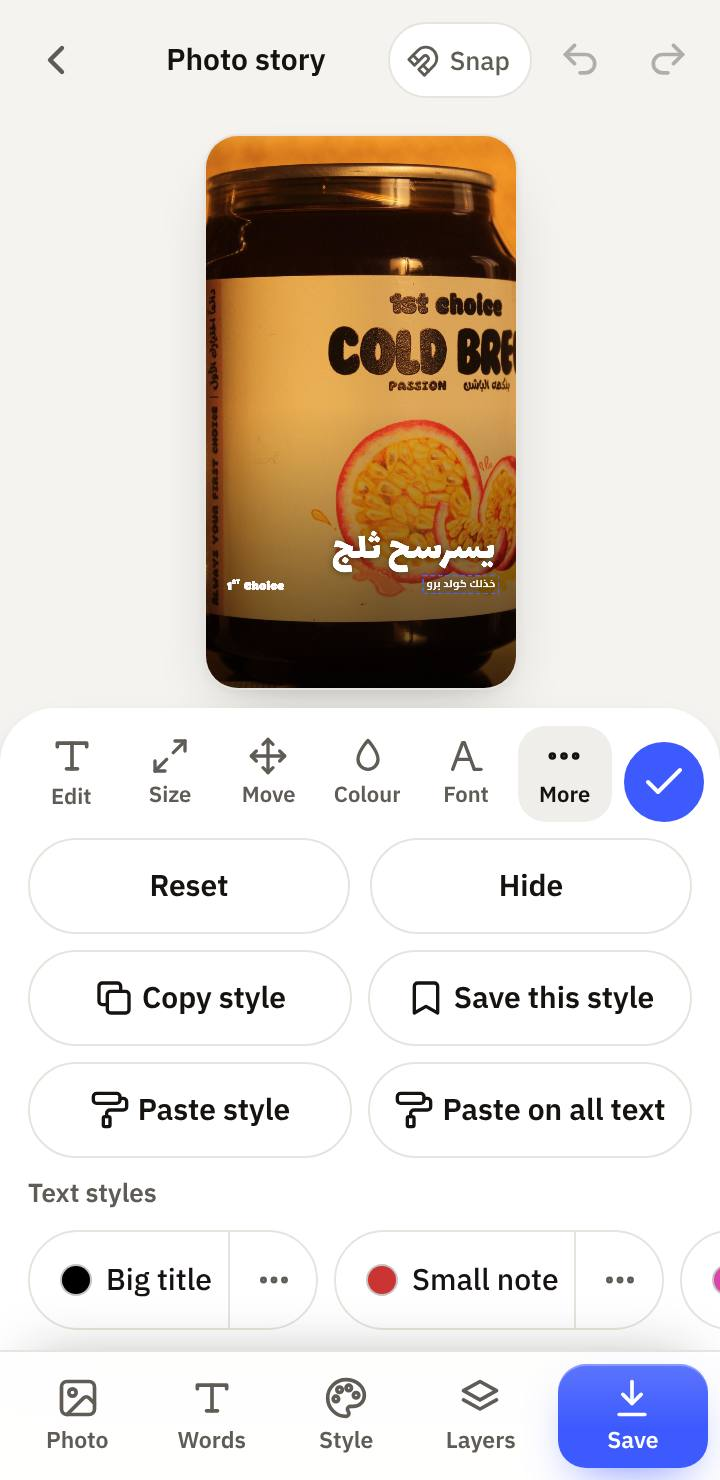
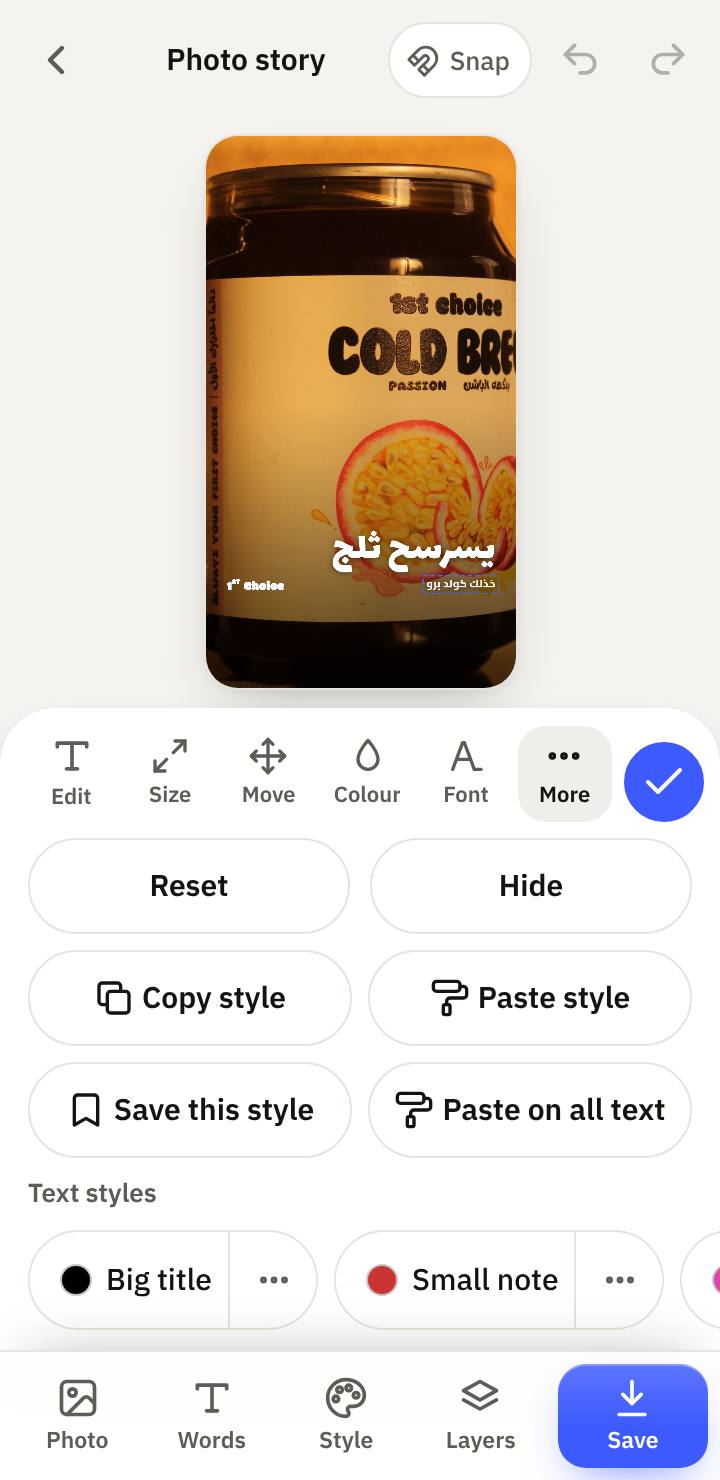
More tab: Paste style beside Copy style once copied; textstyles check follows the one-row styles list; notes
Claude-Session: https://claude.ai/code/session_01Y65H7WP9zYRrERVhiuaJhj

Changed region(s): [[0.0917, 0.7149, 0.4278, 0.777], [0.55, 0.6527, 0.9167, 0.6838]]

diff --git a/assets/studio.css b/assets/studio.css
@@ -765,6 +765,7 @@ body.swiping #savedGrid .sv-open{cursor:default}
   body.tool-page .sheet.save-sheet{max-height:min(76dvh,640px,calc(100dvh - var(--top-h) - var(--safe-t) - var(--bar-h) - var(--safe-b) - 112px))}
   #inspStyleRow{gap:var(--sp-2)}
   #inspStyleRow .mini,#inspStyleRow #inspPasteAll{flex:1 1 calc(50% - var(--sp-1));min-width:0;padding:0 var(--sp-2);gap:var(--sp-1);white-space:nowrap}
+  #inspStyleRow #inspPasteStyle{order:1}#inspStyleRow #inspSaveStyle{order:2}#inspStyleRow #inspPasteAll{order:3}   /* Copy · Paste side by side once copied */
   .ts-list{flex-wrap:nowrap;overflow-x:auto;scrollbar-width:none;margin-inline:-14px;padding-inline:14px;scroll-padding-inline:14px}
   .ts-list::-webkit-scrollbar{display:none}
   .ts-list .ts-chip{flex:none}

diff --git a/studio-notes/pending/1.43.0.md b/studio-notes/pending/1.43.0.md
@@ -10,7 +10,7 @@ Clean (nothing to fix): no control under 44px (the colour-wheel swatch is 40px w
 ## Bugs fixed
 1. **Save sheet hid the preview on short phones.** On a 375×667 iPhone SE and a 360×740 Android the Save sheet (`max-height:min(76dvh,640px)`) left ~40–55px above it, `fit()` still gave the preview its 120px minimum, so the preview slid up under the top bar (Carousel/Highlight: its top at −20…−30px, under the strip too). Now the Save sheet's height is capped so ~100px of preview stays (`calc(100dvh - top bar - bottom bar - 112px)`; no change at 390×844), the preview's minimum is 72px, and on paged tools the slide strip steps aside while a sheet leaves no room for it (`.stage.tight`, set by `fit()`; back when the sheet closes). The Save button stays in view.
 2. **Two Add photo buttons on a computer** (1.40.0 audit finding). The Photo card's tile and the blue "Add your photo" under the preview showed at once; the blue one was also a third filled button and sat below the fold. On a computer only the tile shows now (`.stage>.cta-photo` hidden at ≥ 821px); phones keep the blue button (the only one they see without opening Photo).
-3. **More tab too tall on a phone** (backlog 1.19.0 note, sessions brief). At 360px Copy style / Save this style / Paste style wrapped to 2–3 lines in three columns, and saved text styles wrapped onto extra rows (up to 4 rows with 8 styles), so the preview shrank to 115×205. Now the style buttons sit two to a row on one line (Copy · Save this style / Paste style · Paste on all text; a lone Copy style fills the row) and saved styles are one row that scrolls sideways, like the Save sheet's collections. Preview with everything showing at 360×740: 155×275 (was 115×205). Desktop unchanged.
+3. **More tab too tall on a phone** (backlog 1.19.0 note, sessions brief). At 360px Copy style / Save this style / Paste style wrapped to 2–3 lines in three columns, and saved text styles wrapped onto extra rows (up to 4 rows with 8 styles), so the preview shrank to 115×205. Now the style buttons sit two to a row on one line (Copy · Save this style before anything is copied; after Copy: Copy · Paste style / Save this style · Paste on all text, via CSS `order`; a lone Copy style fills the row) and saved styles are one row that scrolls sideways, like the Save sheet's collections. Preview with everything showing at 360×740: 155×275 (was 115×205). Desktop unchanged.
 
 ## What's New cards (changelog format)
 ```
@@ -38,6 +38,7 @@ Shots: Save sheet at 375×667 (where the bug shows; 2×), More at 360×740 (2×,
 No new shipped files (only What's New shots). Bump the cache as usual.
 
 ## run.mjs
+- `textstyles` now also covers the one-row styles list.
 - Add `toolfix43` to the `^tools\/(?!video)|assets\/studio\.js` row and to `TOOL_SUITES`; also to the `assets\/studio\.css` row (it checks CSS-only fixes). ~55 s alone; no `SLOW` entry needed (or `toolfix43:55`).
 - Skill test map: add `toolfix43` to the "Tool pages" row and to "Copy / Paste style, text styles, … the inspector's More tab".
 
@@ -62,4 +63,8 @@ None (no new Arabic; English labels unchanged).
 ## Merge risks
 - `fit()` in `tool()` (studio.js): 1.48 (drafts/queue) does not touch it; 1.41 (save path) does not either. Only lines inside `fit()` changed.
 - `studio.css`: one new block before the fresh-look block (keep both on conflict). Rules are scoped to `#inspStyleRow`, `.ts-list`, `.stage`, `body.tool-page .sheet.save-sheet`; Board does not use these classes.
+- `tests/textstyles.mjs` (outside my listed scope, lead told): one check at line 152 changed from "chips wrap" to "one row inside the sheet that scrolls to the last style". `copystyle` needed no change (Paste stays beside Copy).
 - Tests that measure the Save sheet height or expect `#ctaPhoto` on a computer: none found (`restock-styles` already accepts a hidden or `display:none` button).
+
+## Suites run (port 8083, last code)
+smoke 17/0, taste 35/0, toolfix43 77/0 (fails 28 on the base), full all pass, v5 27/0, polish 23/0, simplify40 34/0, simplify35 23/0, copystyle 58/0, textstyles 146/0.
